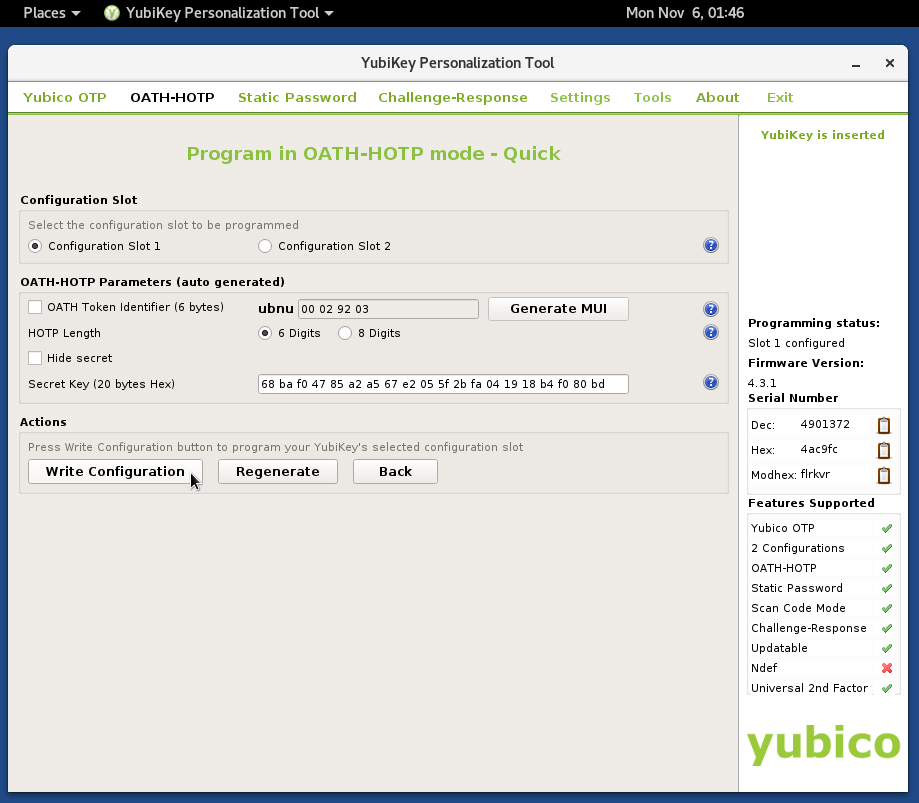
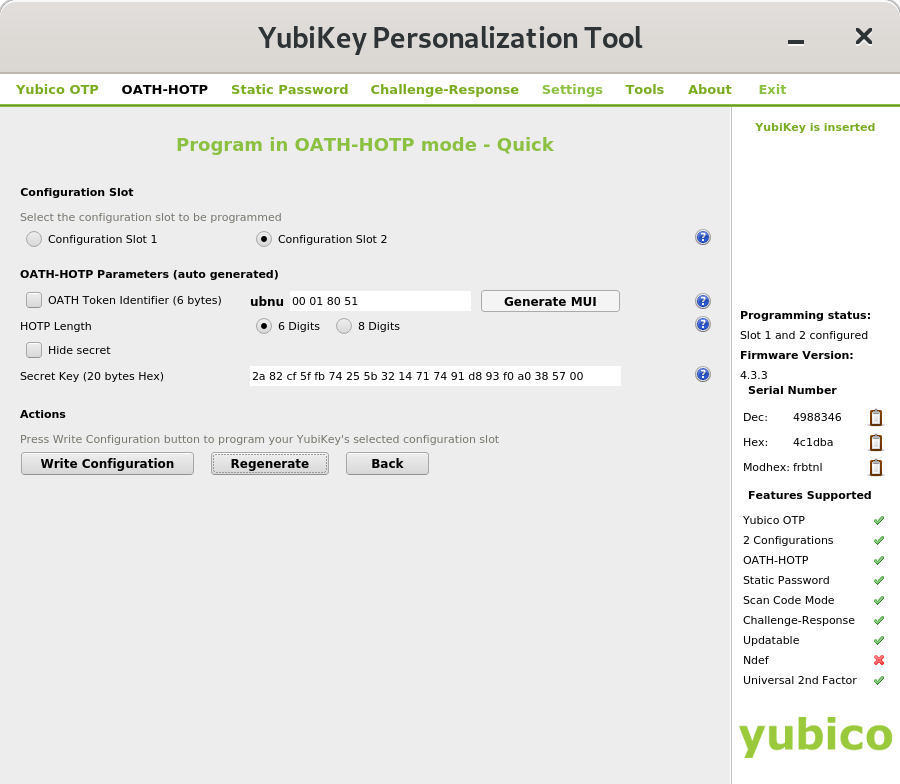
Add Tails-4 appropriate documentation and screenshots for: - Yubikey - MAT2 - Veracrypt (Export device) - Disks (Backup instructions)

Changed region(s): [[0.0, 0.0, 1.0, 1.0], [0.28, 0.4592, 0.7156, 0.4898], [0.7467, 0.2755, 0.8089, 0.3367]]

diff --git a/docs/backup_workstations.rst b/docs/backup_workstations.rst
@@ -69,8 +69,10 @@ Fill out the form as follows:
 |Format Backup Drive|
 
 * **Erase**: `Don't overwrite existing data (Quick)`
-* **Type**: `Encrypted, compatible with Linux systems (LUKS + Ext4)`
+* **Type**: `Internal disk for use with other Linux systems only (Ext4)`, and make sure `Password protect volume (LUKS)` is checked
 * **Name**: `Backup`
+
+|Backup Drive Passphrase|
 
 .. warning:: Since this will serve as a long-term backup, **make sure to
  use a strong passphrase**.
@@ -123,12 +125,12 @@ Then, copy the contents of the device's persistent volume to the directory using
 
 
 .. note:: Please make sure to include the trailing ``/`` in the directory
-          paths in the command above, otherwise the files will not 
+          paths in the command above, otherwise the files will not
           be backed up correctly.
 
-Once complete, unmount the TailsData partition by clicking the Eject button 
-beside its entry in the lefthand column of the file manager. When its entry is 
-no longer shown in the lefthand column, it is save to remove the 
+Once complete, unmount the TailsData partition by clicking the Eject button
+beside its entry in the lefthand column of the file manager. When its entry is
+no longer shown in the lefthand column, it is save to remove the
 *Admin Workstation* USB.
 
 Repeat these steps for every device, making a new folder on the backup device
@@ -138,7 +140,7 @@ Finally, once you have completed the steps described in this section for each
 USB drive, unmount the Backup partition by clicking its Eject button. Wait until
 the Backup USB can be safely removed, and store it somewhere safely.
 
-.. note:: After the Eject button is clicked, it may be take some time before 
+.. note:: After the Eject button is clicked, it may be take some time before
           the drive can be safely removed. Wait until its entry  is removed from
           the lefthand column of the file manager.
 
@@ -147,13 +149,13 @@ the Backup USB can be safely removed, and store it somewhere safely.
 Restoring a Workstation from a Backup
 -------------------------------------
 
-To recreate a backed-up *Admin Workstation*, *Journalist Workstation*, or 
-*Secure Viewing Station* Tails USB,  you will need 
+To recreate a backed-up *Admin Workstation*, *Journalist Workstation*, or
+*Secure Viewing Station* Tails USB,  you will need
 
 - your Backup USB containing the persistent volume to be restored,
-- a blank USB stick to be set up as the new workstation USB,  
-- an airgapped machine and a USB with Tails already installed, referred to as 
-  the host Tails USB in this document. The host Tails USB is only used to 
+- a blank USB stick to be set up as the new workstation USB,
+- an airgapped machine and a USB with Tails already installed, referred to as
+  the host Tails USB in this document. The host Tails USB is only used to
   transfer files between the Backup USB and the new workstation USB.
 
 The process will require 3 USB ports - if necessary, you can use a USB hub. We
@@ -163,10 +165,10 @@ Prepare the new Tails USB
 ~~~~~~~~~~~~~~~~~~~~~~~~~
 
 Follow the guide to :ref:`creating a Tails USB <set_up_tails>` to install
-Tails and create a persistent volume on the blank USB stick to create the new 
+Tails and create a persistent volume on the blank USB stick to create the new
 workstation USB.
 
- 
+
 Open the Backup USB and new Tails Persistent Volume
 ~~~~~~~~~~~~~~~~~~~~~~~~~~~~~~~~~~~~~~~~~~~~~~~~~~~
 
@@ -185,35 +187,36 @@ will appear in the lefthand column.
 Copy the Backup to the New Workstation USB's Persistent Volume
 ~~~~~~~~~~~~~~~~~~~~~~~~~~~~~~~~~~~~~~~~~~~~~~~~~~~~~~~~~~~~~~
 
-Open a terminal by navigating to **Applications** ▸ **Favorites** 
+Open a terminal by navigating to **Applications** ▸ **Favorites**
 ▸ **Terminal** . Next, use the ``rsync`` command to copy the appropriate backup
 folder to the new workstation USB's persistent volume. For example, if the backup
 folder to be copied is named ``admin-backup``, run the following command:
 
 .. code:: sh
- 
+
   sudo bash -c "rsync -a --info=progress2 --no-specials --no-devices \
       /media/amnesia/Backup/admin-backup/ /media/amnesia/TailsData/ && sync"
 
 .. note:: Please make sure to include the trailing ``/`` in the directory
-          paths in the command above, otherwise the backup files will not 
+          paths in the command above, otherwise the backup files will not
           be restored correctly.
 
 Once the command is complete, click the Eject button for the ``TailsData`` volume
 in the lefthand column of the file manager, wait for the ``TailsData`` entry to
 disappear from the column, and remove the new workstation USB.
 
-You may now repeat the restore process for any other USBs that you wish to 
-restore, or shut down the host Tails USB and test your new workstation USB by 
+You may now repeat the restore process for any other USBs that you wish to
+restore, or shut down the host Tails USB and test your new workstation USB by
 booting it with persistence unlocked and verifying its functionality.
 
 .. |Browse to Places Computer| image:: images/upgrade_to_tails_3x/browse_to_places_computer.png
-.. |Click Cogs| image:: images/upgrade_to_tails_3x/click_the_button_with_cogs.png
+.. |Click Cogs| image:: images/tails_4x/disks_format_partition.png
 .. |Fill in Passphrase| image:: images/upgrade_to_tails_3x/fill_in_passphrase.png
-.. |Format Backup Drive| image:: images/upgrade_to_tails_3x/fill_out_as_follows.png
+.. |Format Backup Drive| image:: images/tails_4x/format_backup_drive.png
+.. |Backup Drive Passphrase| image:: images/tails_4x/backup_drive_passphrase.png
 .. |Start Nautilus| image:: images/screenshots/root_terminal_nautilus_cli.png
 .. |Make Folders for All Drives| image:: images/upgrade_to_tails_3x/make_folders_for_all_drives.png
 .. |Backup and TailsData Mounted| image:: images/upgrade_to_tails_3x/backup_and_tailsdata_mounted.png
 .. |Applications Utilities Disks| image:: images/upgrade_to_tails_3x/navigate_to_applications.png
-.. |Select the Disk| image:: images/upgrade_to_tails_3x/select_the_disk.png
-.. |Two Partitions Appear| image:: images/upgrade_to_tails_3x/two_partitions_appear.png
+.. |Select the Disk| image:: images/tails_4x/disks_select_drive.png
+.. |Two Partitions Appear| image:: images/tails_4x/two_partitions_appear.png

diff --git a/docs/journalist.rst b/docs/journalist.rst
@@ -287,11 +287,10 @@ delete the files from your device:
 To decrypt and view documents or messages, return to your **Persistent** folder.
 All key actions are initiated by double-clicking:
 
-- Double-clicking archives in ZIP or gzip format will open the "File Roller"
-  application, which allows you to extract the contents.
+- Double-clicking archives in ZIP or gzip format will open the "Archive Manager"
+  application (called "file-roller" on the command line), which allows you to extract the contents.
 
-- Double-clicking files that end in ``.gpg`` will attempt to decrypt the contents
-  to the same directory. If you have configured a passphrase for your
+- Double-clicking files that end in ``.gpg`` will attempt to decrypt the contents to the same directory. If you have configured a passphrase for your
   *Submission Key*, you will be prompted for it.
 
 - Double-clicking decrypted messages or documents will attempt to open them in a
@@ -305,7 +304,7 @@ a document with an incorrect or missing file extension.
 
 .. tip::
 
-   Always extract gzip archives with the "File Roller" application, which is
+   Always extract gzip archives with the "Archive Manager" application, which is
    the default when double-clicking the archive. Other methods may not preserve
    the filename contained in the archive.
 
@@ -439,27 +438,33 @@ highly sensitive submissions.
 Removing Metadata
 ~~~~~~~~~~~~~~~~~
 
-.. tip:: For detailed information about removing metadata from documents, check out
-         this in-depth `guide to removing metadata`_.
+.. tip:: For detailed information about removing metadata from documents, check out this in-depth `guide to removing metadata`_.
 
-Tails comes with the `Metadata Anonymisation Toolkit`_ (MAT) that
+Tails comes with the `Metadata Anonymisation Toolkit 2`_ (MAT2) that
 is used to help strip metadata from a variety of types of files,
 including png, jpg, OpenOffice/LibreOffice documents, Microsoft Office
 documents, pdf, tar, tar.bz2, tar.gz, zip, mp3, mp2, mp1, mpa, ogg,
-and flac. You can open MAT by clicking **Applications** ▸ **System Tools** ▸
-**MAT**.
+and flac. We recommend using this and other tools to work with documents within Tails for as much of your workflow as possible.
 
-We recommend always doing as much work as possible inside of Tails
-before working with documents on your everyday workstation. This includes
-stripping metadata with MAT.
+Tails 4 replaces MAT with MAT2, which is usable via the command line and via a context menu in the **Files** application (called "nautilus" on the command line).
 
-.. warning:: MAT is no longer actively maintained and **will not**
-             strip all metadata, even when the output claims the
-             document is clean. Some metadata are likely to persist:
-             you must **never** assume MAT has removed all metadata.
+You can use MAT2 via the **Files** application by browsing to **Places** ▸ **(Your file's location)** and right-clicking on your file. In the context menu, select **Remove metadata**.
 
-When you no longer need documents, you can right-click on them and
-choose **Wipe** to delete them.
+|mat2 context menu|
+
+Note that this does not alter the original file--it creates a clean copy.
+
+|mat2 cleaned|
+
+To use MAT2 on the command line, type ``man mat2`` to see a list of available actions you can take with MAT2. For example, you can view the metadata of a file with ``mat2 myfile --show``.
+
+|mat2 cli show|
+
+You can create a "clean" version of the document with ``mat2 myfile``, again noting that this does not erase the metadata on the original file. This is equivalent to the "Remove metadata" context menu option.
+
+Note that even after running MAT2, you should carefully inspect files to ensure that all metadata has been wiped, or convert them to a simpler file format (for example, converting a ``.xls`` file to a ``.csv``) to ensure that metadata is not left behind in error.
+
+When you no longer need documents, in the Files application, you can right-click on them and choose **Wipe** to securely delete them.
 
 |Wiping documents|
 
@@ -533,7 +538,7 @@ disclose details about the contents of any submission you have received.
 
 .. _`QR codes can contain malicious links`: https://securedrop.org/news/security-advisory-do-not-scan-qr-codes-submitted-through-securedrop-connected-devices
 .. _`working with sensitive documents`: https://tails.boum.org/doc/sensitive_documents/index.en.html
-.. _`Metadata Anonymisation Toolkit`: https://mat.boum.org/
+.. _`Metadata Anonymisation Toolkit 2`: https://mat.boum.org/
 
 Moving Documents to Your Everyday Workstation
 ---------------------------------------------
@@ -646,12 +651,17 @@ audio, and begin publishing important, high-impact work!
 .. |Sent reply| image:: images/manual/screenshots/journalist-composes_reply.png
 .. |Flag for reply button| image:: images/manual/screenshots/journalist-col_has_no_key.png
 .. |Flag for reply notification| image:: images/manual/screenshots/journalist-col_flagged.png
+
+.. |mat2 context menu| image:: images/manual/screenshots/mat2_context_menu.png
+.. |mat2 cleaned| image:: images/manual/screenshots/mat2_cleaned.png
+.. |mat2 cli show| image:: images/manual/screenshots/mat2_cli_show.png
+
 .. |Wiping documents| image:: images/manual/viewing5.png
 .. |Journalist account profile| image:: images/manual/screenshots/journalist-edit_account_user.png
-.. |Unlock VeraCrypt in Tails 1| image:: images/manual/unlock-veracrypt-in-tails-1.png
-.. |Unlock VeraCrypt in Tails 2| image:: images/manual/unlock-veracrypt-in-tails-2.png
-.. |Unlock VeraCrypt in Tails 3| image:: images/manual/unlock-veracrypt-in-tails-3.png
-.. |Unlock VeraCrypt in Tails 4| image:: images/manual/unlock-veracrypt-in-tails-4.png
+.. |Unlock VeraCrypt in Tails 1| image:: images/manual/unlock_veracrypt_in_tails_1.png
+.. |Unlock VeraCrypt in Tails 2| image:: images/manual/unlock_veracrypt_in_tails_2.png
+.. |Unlock VeraCrypt in Tails 3| image:: images/manual/unlock_veracrypt_in_tails_3.png
+.. |Unlock VeraCrypt in Tails 4| image:: images/manual/unlock_veracrypt_in_tails_4.png
 .. |br| raw:: html
 
     <br>

diff --git a/docs/yubikey_setup.rst b/docs/yubikey_setup.rst
@@ -12,10 +12,12 @@ requires some configuration steps using a separate software tool.
 What is a YubiKey?
 ------------------
 
-A YubiKey is a physical security key used for two-factor authentication. They
-are made by a company called Yubico and are `commercially available`_.
+A YubiKey is a physical token used for two-factor authentication. They
+are made by a company called Yubico and are `commercially available`_. Note that not all physical tokens are compatible with the YubiKey Personalization Tool; for this, you require `a key that can support OATH-HOTP`_.
 
 .. _`commercially available`: https://www.yubico.com/products/yubikey-hardware/fido-u2f-security-key
+
+.. _`a key that can support OATH-HOTP`: https://support.yubico.com/support/solutions/articles/15000006467-oath-hotp-yubico-best-practices-guide
 
 Download and Launch the YubiKey Personalization Tool
 ----------------------------------------------------
@@ -77,13 +79,15 @@ choose a location to save the log file. When the configuration is
 done, you should see green text saying **YubiKey configured** at the
 top of the window.
 
+|YubiKey config successful|
+
 Adding Users
 ------------
 
 When adding new users, a SecureDrop admin will need the
 **Secret Key** value described above. She will enter it after
 selecting the **I'm Using a YubiKey** option while :ref:`adding users
-<Adding Users>`.
+<Adding Users>`. The new user will then have to verify their YubiKey before being added to the system. This means that the new user and the admin should be physically proximal for this process.
 
 Using Your YubiKey
 ------------------
@@ -95,7 +99,8 @@ cursor there. Quickly press the lighted button on your YubiKey. This
 will insert the 6-digit code that you will need to log in.
 
 .. note:: When using **Configuration Slot 2**, be sure to press and hold
-          the YubiKey button for approximately 3 seconds.
+          the YubiKey button for approximately 3 seconds. This can be somewhat finicky.
 
 .. |YubiKey Overview| image:: images/yubikey_overview.png
 .. |YubiKey Config| image:: images/yubikey_oath_hotp_configuration.png
+.. |YubiKey Config Successful| image:: images/yubikey_configuration_successful.png

diff --git a/docs/set_up_transfer_and_export_device.rst b/docs/set_up_transfer_and_export_device.rst
@@ -166,13 +166,13 @@ your new *Transfer Device* should be ready for use. If you haven't already, make
 sure to label it.
 
 .. |Disk Utility icon| image:: images/icons/disk-utility.png
-.. |screenshot of the Applications menu in Tails, highlighting Disk Utility| image:: images/screenshots/applications_accessories_disk-utility.png
+.. |screenshot of the Applications menu in Tails, highlighting Disk Utility| image:: images/tails_4x/disks_utility_applications_menu.png
 .. |screenshot of Disk Utility application| image:: images/screenshots/disk-utility.png
 .. |screenshot of the menu to create a new partition in the Disk Utility application| image:: images/screenshots/create-partition.png
 .. |screenshot of partition format options| image:: images/screenshots/disks_format_partition.png
 .. |screenshot of passphrase selection prompt in the Disk Utility application| image:: images/screenshots/create-passphrase.png
 
-.. [#] Tails screenshots were taken on Tails 4.0.0-rc1. Please make an issue on
+.. [#] Tails screenshots were taken on Tails 4.0.0. Please make an issue on
        GitHub if you are using the most recent version of Tails and the
        interface is different from what you see here.
 

diff --git a/docs/admin.rst b/docs/admin.rst
@@ -172,14 +172,13 @@ YubiKey
 
 If the journalist wishes to use a YubiKey for two-factor authentication,
 check the box next to "I'm using a YubiKey". You will then need to enter
-the OATH-HOTP Secret Key that your YubiKey is configured with. For more
+the OATH-HOTP Secret Key that their YubiKey is configured with. For more
 information, read the :doc:`YubiKey Setup Guide <yubikey_setup>`.
 
 |Enable YubiKey|
 
-Once you've configured your YubiKey and entered the Secret Key, click
-*Add user*. On the next page, enter a code from your YubiKey by
-inserting it into the workstation and pressing the button.
+Once you've configured the YubiKey and entered the Secret Key, click
+*Add user*. On the next page, have the journalist enter a code from their YubiKey by inserting it into the workstation and pressing the button.
 
 |Verify YubiKey|
 
